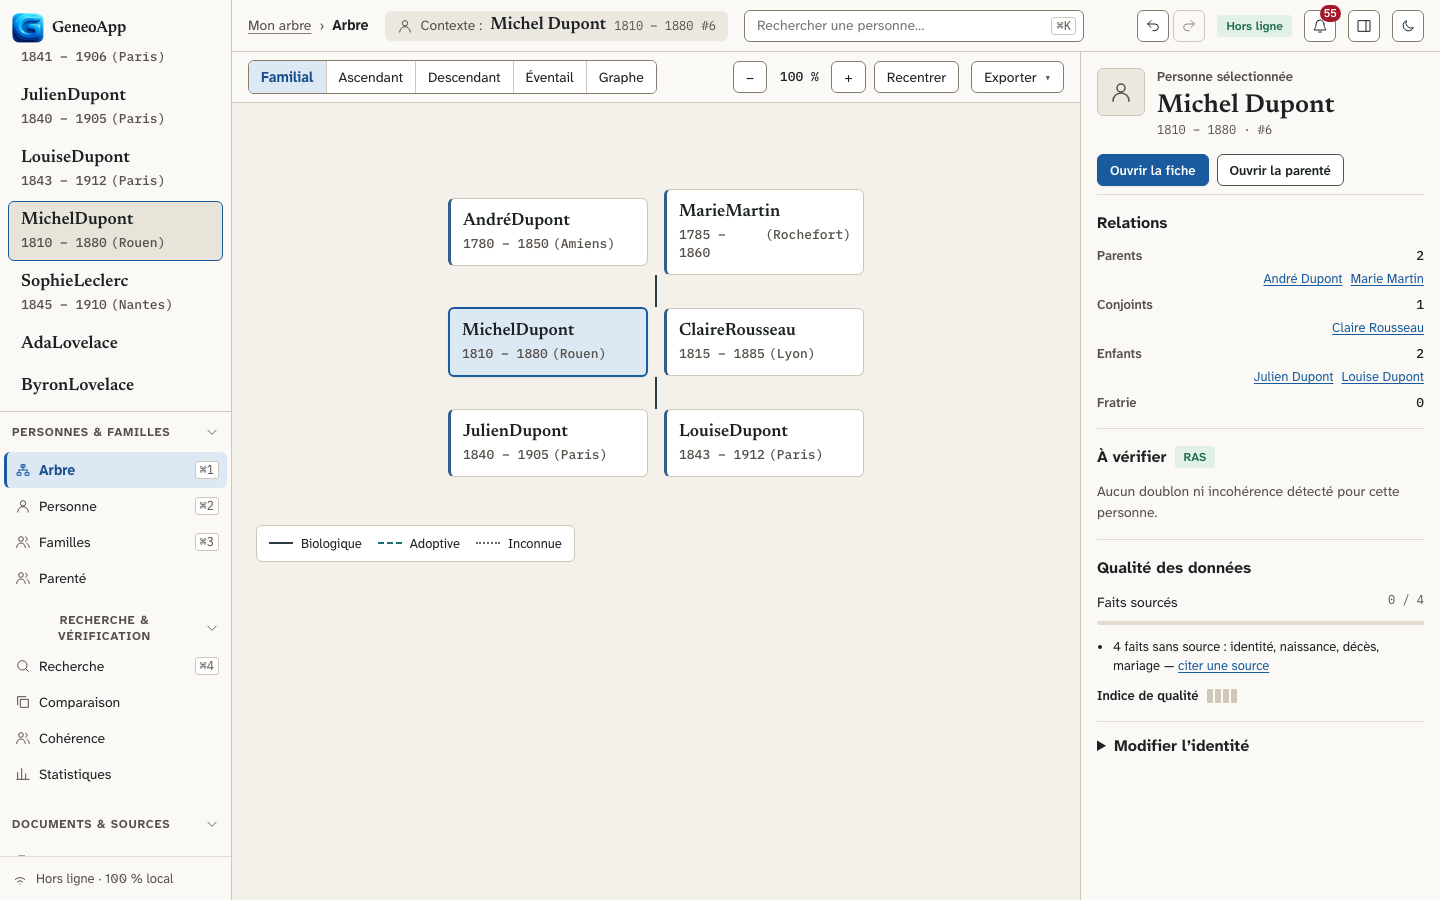
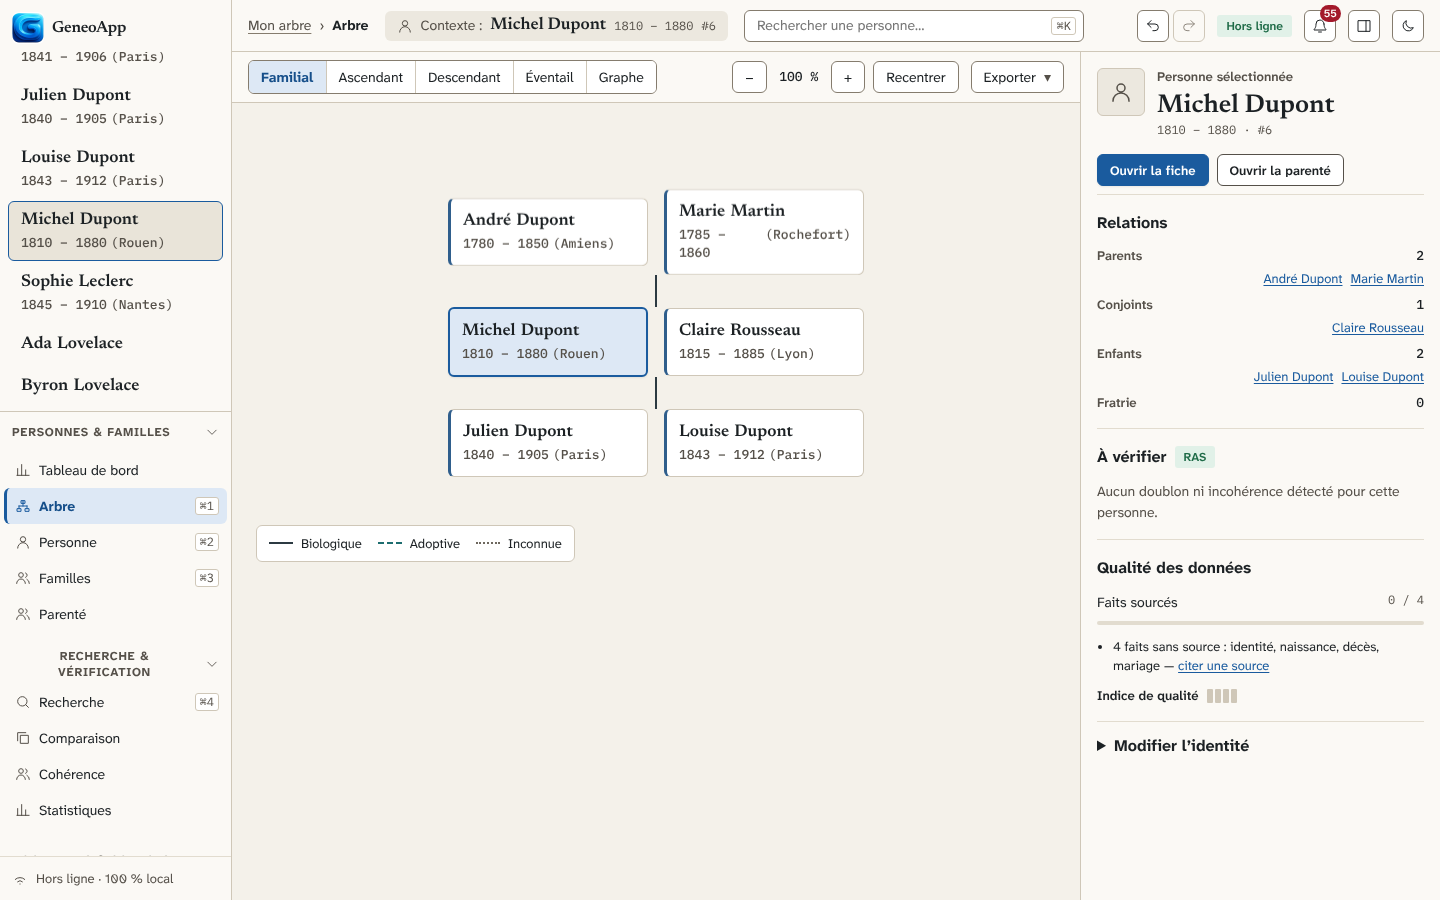
fix(ui): espace entre prénom et nom dans les cartes ; style de la page de jeton ; captures du site à jour
Claude-Session: https://claude.ai/code/session_01BiwMSgkqgYYMTLjkGCVcsn

diff --git a/src/server/src/web/web-mode.js b/src/server/src/web/web-mode.js
@@ -62,13 +62,30 @@ export const WEB_CONTENT_SECURITY_POLICY = [
   "frame-ancestors 'none'",
 ].join('; ');
 
+// La page de saisie du jeton n'exécute aucun script : seul son style en ligne est autorisé.
+const LOGIN_CONTENT_SECURITY_POLICY = WEB_CONTENT_SECURITY_POLICY.replace(
+  /style-src [^;]*/,
+  "style-src 'unsafe-inline'",
+);
+
 function loginPage(message) {
   return `<!doctype html>
 <html lang="fr"><head><meta charset="utf-8"><meta name="viewport" content="width=device-width, initial-scale=1">
 <title>GeneoApp - accès</title>
-<style>body{font-family:system-ui,sans-serif;max-width:24rem;margin:4rem auto;padding:0 1rem}
-input,button{font:inherit;padding:.5rem;width:100%;box-sizing:border-box;margin-top:.5rem}
-.err{color:#b00020}</style></head><body>
+<style>
+:root{--bg:#faf9f6;--card:#fff;--text:#1f2328;--muted:#5b6470;--border:#cfc9bd;--action:#1a56a0;--err:#b00020}
+@media (prefers-color-scheme:dark){:root{--bg:#1b1a17;--card:#25231f;--text:#f1ede4;--muted:#b6afa1;--border:#4a463e;--action:#6ea3e6}}
+body{margin:0;min-height:100vh;display:grid;place-items:center;background:var(--bg);color:var(--text);font-family:"Nunito Sans",system-ui,sans-serif}
+main{width:min(24rem,calc(100% - 2rem));background:var(--card);border:1px solid var(--border);border-radius:12px;padding:2rem;box-shadow:0 4px 18px rgba(0,0,0,.08)}
+h1{font-family:Georgia,"Times New Roman",serif;font-weight:600;margin:0 0 .5rem}
+p{color:var(--muted);margin:0 0 1rem}
+label{font-weight:600}
+input,button{font:inherit;padding:.6rem .75rem;width:100%;box-sizing:border-box;margin-top:.5rem;border-radius:8px}
+input{border:1px solid var(--border);background:var(--bg);color:var(--text)}
+input:focus-visible,button:focus-visible{outline:3px solid var(--action);outline-offset:2px}
+button{border:0;background:var(--action);color:#fff;font-weight:700;cursor:pointer;margin-top:1rem}
+.err{color:var(--err)}
+</style></head><body><main>
 <h1>GeneoApp</h1>
 <p>Ce serveur est protégé par un jeton d'accès.</p>
 ${message ? `<p class="err" role="alert">${message}</p>` : ''}
@@ -76,7 +93,7 @@ ${message ? `<p class="err" role="alert">${message}</p>` : ''}
 <label for="token">Jeton d'accès</label>
 <input id="token" name="token" type="password" autocomplete="current-password" required autofocus>
 <button type="submit">Entrer</button>
-</form></body></html>`;
+</form></main></body></html>`;
 }
 
 function sameOriginWrite(request) {
@@ -117,7 +134,7 @@ export function webAccessGate({ accessToken, trustProxy = false }) {
   router.get('/health', (_request, response) => response.json({ status: 'ok' }));
 
   router.get(LOGIN_PATH, (_request, response) => {
-    response.set('Content-Security-Policy', WEB_CONTENT_SECURITY_POLICY).type('html');
+    response.set('Content-Security-Policy', LOGIN_CONTENT_SECURITY_POLICY).type('html');
     response.set('Cache-Control', 'no-store').send(loginPage());
   });
 
@@ -127,7 +144,7 @@ export function webAccessGate({ accessToken, trustProxy = false }) {
     (request, response) => {
       const key = request.ip;
       const state = failures.get(key) ?? { count: 0, until: 0 };
-      response.set('Content-Security-Policy', WEB_CONTENT_SECURITY_POLICY).type('html');
+      response.set('Content-Security-Policy', LOGIN_CONTENT_SECURITY_POLICY).type('html');
       response.set('Cache-Control', 'no-store');
       if (state.until > Date.now()) {
         return response.status(429).send(loginPage('Trop de tentatives, patientez un instant.'));

diff --git a/test/server/web-mode.test.js b/test/server/web-mode.test.js
@@ -143,6 +143,12 @@ test('hors boucle locale avec jeton : accès protégé par cookie HttpOnly SameS
   });
   assert.equal(bearer.status, 200);
 
+  // La page de saisie du jeton garde son style sans autoriser de script.
+  const loginPage = await fetch(`${base}/__acces`);
+  const loginCsp = loginPage.headers.get('content-security-policy');
+  assert.match(loginCsp, /style-src 'unsafe-inline'/);
+  assert.match(loginCsp, /script-src 'self'/);
+
   // CSRF : une écriture inter-sites est refusée même avec le cookie.
   const csrf = await fetch(`${base}/api/persons`, {
     method: 'POST',

diff --git a/src/client/src/styles/persons.css b/src/client/src/styles/persons.css
@@ -35,6 +35,8 @@
 .person-card__name {
   font: var(--type-person-name);
   display: flex;
+  /* Un conteneur flex ignore l'espace entre prénom et nom : on le restitue. */
+  gap: 0.3em;
   min-width: 0;
   overflow: hidden;
 }
